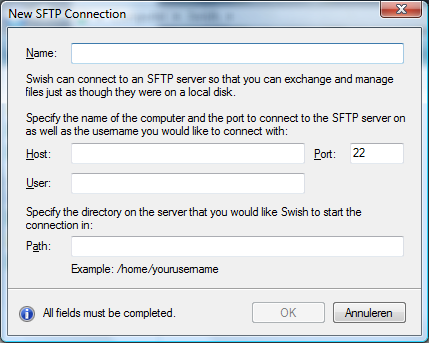
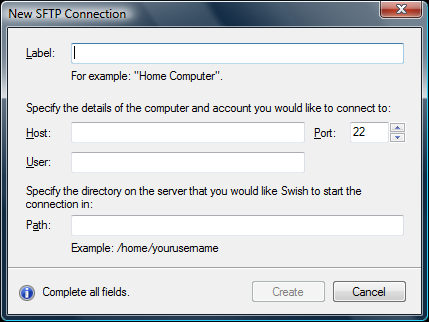
add_host: Extend path example line and update screenshot.

diff --git a/swish/forms/add_host.cpp b/swish/forms/add_host.cpp
@@ -164,7 +164,7 @@ namespace {
 			m_form.add_control(
 				label(
 					translate("Example: /home/yourusername"),
-					42, 131, 104, 8));
+					42, 131, 144, 8));
 			
 			m_form.add_control(line(0, 147, 277));
 
